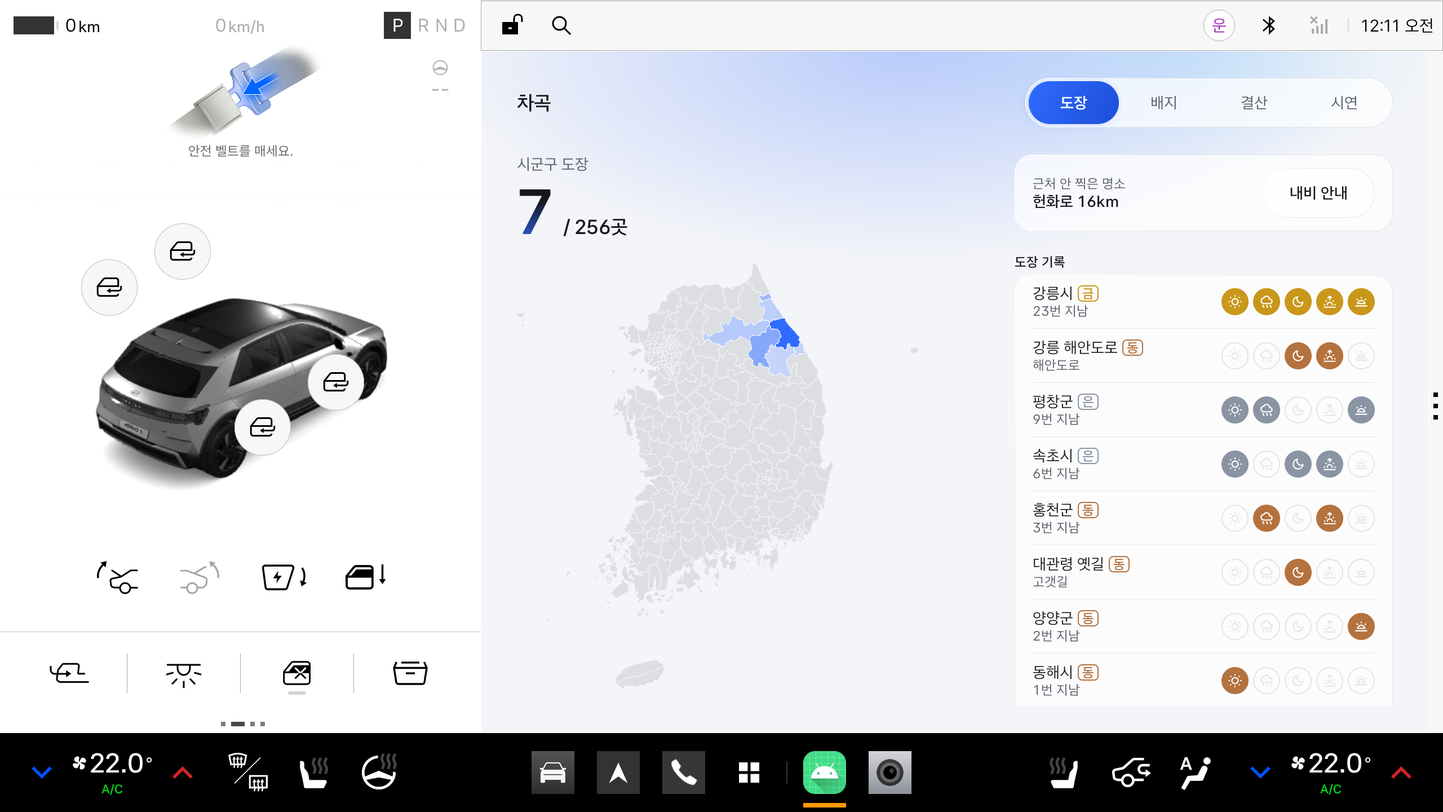
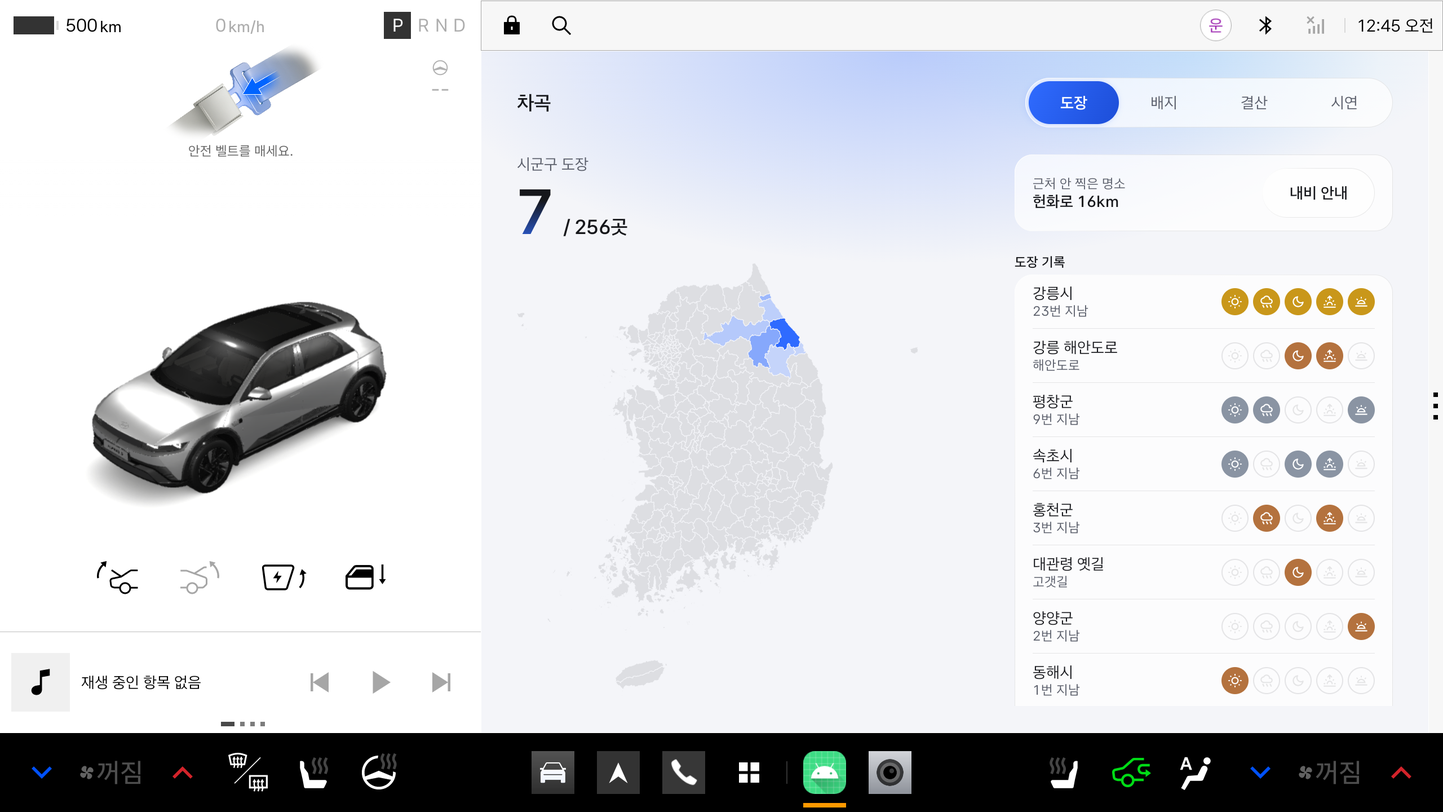
도장 목록의 등급 글자를 빼고 README 문제 정의를 다시 씀
도장 기록 목록에서 금, 은, 동 글자 태그를 빼고 등급은 칸 색과 화면 읽기 설명으로만 알립니다.
README는 운전자와 지역 두 갈래 문제 정의로 다시 쓰고, 링크가 있는 출처로 바꾸고, 세부 절을 줄였습니다.

diff --git a/app/src/main/java/com/example/chagok/ui/Pages.kt b/app/src/main/java/com/example/chagok/ui/Pages.kt
@@ -35,6 +35,8 @@ import androidx.compose.ui.graphics.drawscope.Stroke
 import androidx.compose.ui.graphics.drawscope.withTransform
 import androidx.compose.ui.res.painterResource
 import androidx.compose.ui.res.stringResource
+import androidx.compose.ui.semantics.contentDescription
+import androidx.compose.ui.semantics.semantics
 import androidx.compose.ui.text.style.TextAlign
 import androidx.compose.ui.unit.dp
 import com.example.chagok.Badge
@@ -94,18 +96,18 @@ private fun PlaceList(places: Map<String, List<Stamp>>, visits: Map<String, Int>
     if (recent.isEmpty()) Text(stringResource(R.string.map_empty), Type.body, palette.textSub, Modifier.padding(vertical = Space.m))
     else Panel(recent) { (code, stamps) ->
         val count = visits[code] ?: 0
+        val level = Level.of(count)
         Pressable({ onOpen(code) }, Modifier.fillMaxWidth()) {
             Row(Modifier.fillMaxWidth().heightIn(min = Space.touch).padding(vertical = Space.s), verticalAlignment = Alignment.CenterVertically) {
                 Column(Modifier.weight(1f)) {
-                    Row(verticalAlignment = Alignment.CenterVertically) {
-                        Text(stampName(code), Type.body, palette.text)
-                        Level.of(count)?.let { Spacer(Modifier.width(Space.xs)); LevelTag(it) }
-                    }
+                    // 등급은 칸 색으로만 보여 주고, 화면 읽기에는 등급 이름을 함께 읽어 줍니다
+                    val name = stampName(code)
+                    val description = level?.let { stringResource(R.string.reveal_level, name, stringResource(it.label)) } ?: name
+                    Text(name, Type.body, palette.text, Modifier.semantics { contentDescription = description })
                     // 명소는 종류를, 시군구는 지난 횟수를 적습니다
                     Text(Rules.spot(code)?.let { stringResource(it.kind.label) } ?: stringResource(R.string.visits, count), Type.label, palette.textSub)
                 }
                 val got = stamps.map { it.moment }.toSet()
-                val level = Level.of(count)
                 Row(horizontalArrangement = Arrangement.spacedBy(Space.xs)) {
                     Moment.entries.forEach { MomentDot(it, level.takeIf { _ -> it in got }, Modifier.size(48.dp)) }
                 }

diff --git a/README.md b/README.md
@@ -9,8 +9,6 @@ Pleos Connect 차량용 앱 | 현대차그룹 차량용 앱 개발 공모전 출
 ![Platform](https://img.shields.io/badge/Pleos_Connect-AAOS_14-2F6BFF?style=flat-square)
 ![Kotlin](https://img.shields.io/badge/Kotlin-2.2-7F52FF?style=flat-square&logo=kotlin&logoColor=white)
 ![Jetpack Compose](https://img.shields.io/badge/Jetpack_Compose-BOM_2026.09-4285F4?style=flat-square&logo=jetpackcompose&logoColor=white)
-![Tests](https://img.shields.io/badge/unit_tests-20_passed-2F6BFF?style=flat-square)
-![Offline](https://img.shields.io/badge/서버-없이_동작-5B5F6B?style=flat-square)
 
 [APK 받기](apk/차곡_release.apk) | [시연 영상](.github/readme/demo.mp4) | [설치와 실행](#설치와-실행) | [시연 순서](#시연-순서)
 
@@ -20,72 +18,69 @@ Pleos Connect 차량용 앱 | 현대차그룹 차량용 앱 개발 공모전 출
 
 </div>
 
-<br>
-
 ## 요약
 
-차곡은 차로 지난 시군구와 명소에 그때의 순간(낮, 비, 밤, 새벽, 노을)과 계절을 담은 도장을 찍습니다. 같은 곳도 순간과 계절마다 새 칸이 열려, 한 번 찍으면 끝나는 스탬프와 달리 다시 달릴 이유가 생깁니다.
+차곡은 차로 지난 시군구와 명소에 그때의 순간(낮, 비, 밤, 새벽, 노을)과 계절을 담은 도장을 찍는 Pleos Connect 앱입니다. 같은 곳도 순간과 계절이 바뀌면 새 칸이 열려서, 한 번 찍으면 끝나는 스탬프와 달리 다시 달릴 이유가 생깁니다.
 
 | 항목 | 내용 |
 |---|---|
+| 사용자 | 주말 드라이브를 하는 운전자, 출퇴근 운전자 |
 | 도장 | 시군구 256곳, 명소 11곳. 곳마다 순간 5가지 x 계절 4가지 = 20칸 |
-| 판정 신호 | 비는 와이퍼, 밤, 새벽, 노을은 해 뜨고 지는 시각 |
+| 판정 신호 | 기어, 와이퍼(비), 해 뜨고 지는 시각(밤, 새벽, 노을), 위치 |
 | 등급 | 같은 곳을 지난 날수로 동(1일), 은(5일), 금(20일) |
-| 운전 중 화면 | "주행 기록 중" 한 줄. 새 도장은 기어 P 3초 뒤 공개 |
-| 사용자 | 주말 드라이브를 하는 20~40대 운전자, 출퇴근 운전자 |
-| 검증 | 단위 테스트 20건 통과, 에뮬레이터 경로 재생과 내비 안내 확인 |
-
-<br>
+| 사용 SDK | Pleos Vehicle, FusedLocation, NaviHelper, TextToSpeech |
 
 ## 문제 정의
 
-운전자는 드라이브의 순간을 남길 수 없습니다. 운전 중에는 사진도 메모도 할 수 없고, 다녀온 뒤에는 어디를 몇 번, 어떤 날씨에 달렸는지 기억으로만 남습니다.
+차곡은 운전자 쪽 문제 하나와 지역 쪽 문제 하나를 함께 풉니다.
 
-| 대상 | 불편한 순간 | 지금 쓰는 방법과 한계 |
-|---|---|---|
-| 드라이브하는 운전자 | 비 오는 대관령 옛길을 넘어도 운전 중이라 사진 한 장 남기지 못합니다. 다녀온 뒤에는 그 길을 몇 번 갔는지도 모릅니다 | 동승자가 찍은 사진은 사진첩에 흩어집니다. 폰 타임라인은 위치만 남겨, 그날 비가 왔는지 밤이었는지는 없습니다 |
-| 지자체, 관광공사 | 스탬프 투어에 보상 예산을 써도 방문객이 한 번 찍고 다시 오지 않습니다 | 폰 GPS 스탬프는 한 지점에 들어오면 찍히고 한 번으로 끝납니다. 경북 디지털 관광주민증은 발급 대비 이용이 2.9%입니다 |
+### 운전자: 차로 다녀온 여행이 아무것도 남지 않습니다
 
-국내 여행 약 3억 900만 회 가운데 84.5%가 자가용이라, 이 불편은 국내 여행 대부분에서 생깁니다.
+국내 여행의 84.5%는 자가용으로 갑니다. 그런데 운전자는 운전하는 동안 사진도 메모도 남길 수 없습니다. 비 오는 대관령 옛길을 넘어도 남는 것은 동승자 휴대폰에 흩어진 사진 몇 장이고, 휴대폰 타임라인은 위치만 남겨서 그날 비가 왔는지 밤이었는지는 기록되지 않습니다. 다녀온 뒤에는 그 길을 몇 번, 어떤 날씨에 달렸는지 기억으로만 남습니다.
 
-| 항목 | 값 | 출처 |
-|---|---|---|
-| 국내여행 교통수단 중 자가용 | 84.5% | 2025 국민여행조사, 세계일보 2026-06-30 |
-| 국내여행 횟수 | 약 3억 900만 회, 1인당 6.5회 | 위와 같음 |
-| 디지털 관광주민증(경북) | 발급 122만 1,064건, 이용 3만 5,878건(2.9%) | 뉴시스 2026-07-11 |
-| 지자체 스탬프 보상 | 구미 8곳 인증 시 지역화폐 최대 2만 원, 남양주 최대 4만 원 | 텔트립, 헤럴드K |
+### 지역: 방문객이 다시 와야 하는데, 다시 올 이유가 없습니다
 
-## 차별점
+인구가 줄어드는 지역은 방문객으로 버팁니다. 2026년 5월 인구감소지역에는 주민의 5.8배나 되는 사람이 드나들었습니다. 그래서 지자체는 스탬프 투어와 디지털 관광주민증에 예산을 씁니다. 하지만 스탬프는 한 지점에 들어가면 찍히고 한 번으로 끝나고, 관광주민증은 발급만 하고 쓰지 않는 경우가 대부분입니다. 경북은 관광주민증을 122만 건 발급했지만 실제로 쓰인 것은 3만 6천 건입니다.
+
+## 해결: 다시 달릴 이유를 만드는 도장
+
+차곡은 같은 곳도 그때의 순간과 계절마다 다른 도장을 찍습니다. 운전자는 운전에 손대지 않아도 그날의 드라이브가 기록으로 남고, 지역은 같은 사람이 다른 계절, 다른 시간에 다시 올 이유를 얻습니다.
+
+이 구조가 작동하는 이유는 네 단계입니다.
+
+| 단계 | 근거 |
+|---|---|
+| 1. 여행 대부분은 차로 갑니다 | 국내 여행 교통수단의 84.5%가 자가용입니다 |
+| 2. 지역에는 다시 오는 방문객이 필요합니다 | 인구감소지역 체류인구는 주민의 5.8배입니다 |
+| 3. 한 번 받으면 끝나는 혜택으로는 다시 오지 않습니다 | 경북 관광주민증은 122만 건 발급, 3만 6천 건 이용에 그쳤습니다 |
+| 4. 순간과 계절이 바뀌면 같은 곳도 새 칸이 열립니다 | 한 곳에 20칸이 있고, 지난 날수만큼 동, 은, 금으로 오릅니다 |
 
 | 기존 | 차곡 |
 |---|---|
-| 한 지점에 들어오면 찍히는 폰 GPS 스탬프 | 차에 탑재된 앱이라 차로 지난 곳만 쌓입니다. 명소는 시작점과 끝점을 순서대로 지나야 찍힙니다 |
+| 한 지점에 들어오면 찍히는 휴대폰 GPS 스탬프 | 차에 탑재된 앱이라 차로 지난 곳만 쌓입니다. 명소는 시작점과 끝점을 순서대로 지나야 찍힙니다 |
 | 한 번 찍으면 끝나는 스탬프 | 순간과 계절마다 새 도장이 찍히고, 지난 날수만큼 등급이 오릅니다 |
-| 날씨 앱이 알려 주는 지역 날씨 | 와이퍼를 켜고 달린 구간만 비로 셉니다 |
+| 날씨 앱이 알려 주는 지역 날씨 | 와이퍼를 켜고 달린 구간만 비로 셉니다. 휴대폰은 알 수 없는 차 신호입니다 |
 | 가 볼 곳 추천 목록 | 정차 중 가장 가까운 안 찍은 명소를 Pleos 내비 목적지로 보냅니다 |
 
-<br>
+| 근거 | 내용 | 출처 |
+|---|---|---|
+| 국내 여행 교통수단 | 자가용 84.5%, 1인당 연 6.5회 여행 (2025 국민여행조사) | [시사저널 2026-06-30](https://www.sisajournal.com/news/articleView.html?idxno=378149), 문화체육관광부 |
+| 인구감소지역 체류인구 | 2026년 5월 주민 486만 명, 체류인구 2,799만 명(5.8배). 정식 통계가 아닌 실험적 통계 | [뉴스핌 2026-10-29](https://www.newspim.com/news/view/20261029000651), 국가데이터처·행정안전부 |
+| 디지털 관광주민증 | 경북 발급 122만 1,064건, 이용 3만 5,878건 | [뉴시스, 네이트 뉴스 2026-07-11](https://news.nate.com/view/20260711n03267) |
 
 ## 주요 기능
 
 | 주행 중 | 정차 후 공개 |
 |---|---|
 | <img src=".github/readme/02-driving.png" alt="주행 중 화면. 주행 기록 중 한 줄"> | <img src=".github/readme/03-reveal.png" alt="정차 후 공개. 11월 9일, 밤. 새 도장 2장"> |
-| 기어가 P에서 벗어나면 한 줄 화면으로 바꾸고 모션과 소리를 끕니다. 다른 앱을 띄워도 포그라운드 서비스로 기록합니다 | 기어 P 3초 뒤 날짜, 순간, 새 도장, 오른 등급, 배지를 보여 주고 "새 도장 2장을 모았습니다"처럼 읽어 줍니다 |
+| 기어가 P에서 벗어나면 한 줄 화면으로 바꾸고 모션과 소리를 끕니다. 다른 앱을 띄워도 포그라운드 서비스로 기록합니다 | 기어 P 3초 뒤 날짜, 순간, 새 도장, 오른 등급을 보여 주고 "새 도장 2장을 모았습니다"처럼 읽어 줍니다 |
 
 | 도장 지도 | 도장첩 |
 |---|---|
-| <img src=".github/readme/04-map.png" alt="도장 탭. 지난 날수만큼 칠한 강원 지도, 근처 명소 헌화로 16km, 등급별 도장 기록"> | <img src=".github/readme/05-book.png" alt="강릉시 도장첩. 계절 4줄, 순간 5칸의 20칸 판"> |
-| 지난 날이 많은 시군구일수록 진하게 칠합니다. 맨 위에는 가까운 안 찍은 명소와 "내비 안내" 버튼이 있습니다 | 한 곳의 20칸 판입니다. 찍힌 칸은 등급 색으로 채웁니다 |
+| <img src=".github/readme/04-map.png" alt="도장 탭. 지난 날수만큼 칠한 강원 지도, 근처 명소 헌화로 16km, 등급 색으로 칠한 도장 기록"> | <img src=".github/readme/05-book.png" alt="강릉시 도장첩. 계절 4줄, 순간 5칸의 20칸 판"> |
+| 지난 날이 많은 시군구일수록 진하게 칠합니다. 맨 위에는 가까운 안 찍은 명소와 "내비 안내" 버튼이 있습니다 | 한 곳의 20칸 판입니다. 찍힌 칸은 그곳 등급 색으로 채웁니다 |
 
-| 배지 | 월간 결산 |
-|---|---|
-| <img src=".github/readme/06-badges.png" alt="배지 탭. 모은 배지 5 / 12개"> | <img src=".github/readme/07-recap.png" alt="2026년 10월 결산"> |
-| 오래 쌓는 목표 12개. 받기 전에는 진행도(예: 7 / 18곳)를 보여 줍니다 | 달린 거리, 새 도장, 가장 많이 달린 곳, 비 온 날, 밤 거리, 배지 |
-
-동의 화면은 위치와 차량 신호 두 권한과 쓰는 곳을 보여 주고, "동의하고 시작"을 눌러야 기록을 시작합니다.
-
-<br>
+이 밖에 오래 쌓는 목표 배지 12개와 월간 결산(달린 거리, 새 도장, 비 온 날, 밤 거리)이 있습니다. 처음 실행하면 동의 화면에서 쓰는 정보를 보여 주고, "동의하고 시작"을 눌러야 기록을 시작합니다.
 
 ## 도장 규칙
 
@@ -104,107 +99,30 @@ Pleos Connect 차량용 앱 | 현대차그룹 차량용 앱 개발 공모전 출
 | 밤 | 해가 진 뒤입니다 |
 | 낮 | 그 밖의 시간입니다 |
 
-계절은 날짜(봄 3~5월, 여름 6~8월, 가을 9~11월, 겨울 12~2월)로 정합니다. 등급은 같은 날 여러 번 지나도 하루로 세므로, 매일 지나는 출근길도 금까지 평일 20일이 걸립니다.
-
-<details>
-<summary>등급 색, 명소, 배지 목록</summary>
-
-| 등급 | 날수 | 색 |
-|---|---|---|
-| 동 | 1일 | `#B4723E` |
-| 은 | 5일 | `#8A94A3` |
-| 금 | 20일 | `#C9971A` |
-
-| 명소 | 종류 | 찍을 수 있는 때 |
-|---|---|---|
-| 강릉 해안도로, 헌화로, 달맞이길, 애월 해안도로, 물미해안도로 | 해안도로 | 언제나 |
-| 대관령 옛길, 미시령 옛길, 한계령 | 고갯길 | 언제나 |
-| 여의도 윤중로 | 벚꽃길 | 4월 |
-| 내장산 단풍길 | 단풍길 | 10월 15일부터 11월 15일까지 |
-| 호미곶 | 해돋이 | 1월 1일 |
-
-| 코드 | 이름 | 조건 |
-|---|---|---|
-| B-01 | 열 곳의 방문자 | 서로 다른 시군구 10곳 |
-| B-02 | 전국 여행자 | 서로 다른 시군구 50곳 |
-| B-03 | 강원 완주 | 강원 시군구 18곳 모두 |
-| B-04 | 1,000km 달성 | 누적 주행 1,000km |
-| B-05 | 빗길 드라이버 | 와이퍼를 켜고 누적 100km |
-| B-06 | 해안길 탐험가 | 해안 명소 3곳 |
-| B-07 | 고갯길 탐험가 | 고개 명소 3곳 |
-| B-08 | 한정 도장 | 기간 한정 명소 1곳 |
-| B-09 | 하루의 모든 얼굴 | 한 곳에서 순간 5가지 |
-| B-10 | 사계절 | 한 곳에서 계절 4가지 |
-| B-11 | 도장첩 완성 | 한 곳의 20칸 모두 |
-| B-12 | 단골 | 한 곳을 서로 다른 20일에 지나 금 등급 |
-
-</details>
-
-<br>
+계절은 날짜(봄 3~5월, 여름 6~8월, 가을 9~11월, 겨울 12~2월)로 정합니다. 등급은 같은 날 여러 번 지나도 하루로 세므로, 매일 지나는 출근길도 금까지 평일 20일이 걸립니다. 명소는 해안도로 5곳, 고갯길 3곳, 기간 한정 3곳(4월 윤중로 벚꽃길, 가을 내장산 단풍길, 1월 1일 호미곶)입니다.
 
 ## 안전과 개인정보
 
 | 기준 | 구현 |
 |---|---|
 | 주행 중 애니메이션 금지 | 기어가 P에서 벗어나면 전환 효과 없이 한 줄 화면으로 바꾸고 모든 모션을 끕니다 |
-| 운전 중 행동 유도 금지 | 주행 중 소리와 알림이 없습니다. 근처 명소와 내비 안내는 정차 중에만 보입니다 |
+| 운전 중 행동 유도 금지 | 주행 중에는 소리와 알림이 없습니다. 근처 명소와 내비 안내는 정차 중에만 보입니다 |
 | 오디오 포커스 | `GAIN_TRANSIENT_MAY_DUCK`으로 받아 내비 안내와 겹치지 않습니다 |
-| 가독성과 조작 | 본문 대비 16.4:1, 누르는 영역 88dp 이상 |
-| 저장 | 좌표는 판정 뒤 버리고 시군구별, 순간별 거리만 기기 안에 남깁니다. 서버로 보내지 않습니다 |
-| 권한 | 기어와 와이퍼를 읽기만 합니다. 와이퍼를 읽으려면 창문 권한(`CAR_WINDOWS`)이 필요합니다. 내비 권한은 "내비 안내"를 누를 때만 씁니다 |
-
-<details>
-<summary>세부 기준</summary>
-
-| 가이드 기준 | 구현 |
-|---|---|
-| 대비 4.5:1 이상 | 본문 16.4:1, 보조 글자 5.9:1(밝은 테마), 파란 바탕 위 흰 글자 4.5:1 이상 |
-| CCP 미지원 선언, Back은 `moveTaskToBack` | `ROTARY_SUPPORTED=false`를 선언했고, 뒤로 가기는 앱을 닫지 않고 뒤로 보냅니다. 알림을 눌러도 화면이 쌓이지 않게 `singleTask`로 엽니다 |
-| 위치 사용은 명시적 동의 | "동의하고 시작"을 누른 뒤에 FusedLocation 권한을 요청합니다 |
-| 지울 권리 | 시연 탭에서 기록을 모두 지울 수 있습니다 |
-
-</details>
-
-<br>
+| 저장 | 좌표는 판정한 뒤 버리고, 시군구별 순간별 거리만 기기 안에 남깁니다. 서버로 보내지 않습니다 |
 
 ## 설치와 실행
 
-| 항목 | 값 |
+| 준비물 | 값 |
 |---|---|
 | 에뮬레이터 | Pleos Connect v2.1.0 (Android 14, API 34, 2560×1440) |
-| 차량 값 조작 | Pleos Connect Virtual Console (`http://127.0.0.1:8088/`) |
 | APK | [`apk/차곡_release.apk`](apk/차곡_release.apk) |
+| 차량 값 조작 | Pleos Connect Virtual Console (`http://127.0.0.1:8088/`) |
 
 ```bash
 adb install -r apk/차곡_release.apk
 ```
 
 차곡을 열고 "동의하고 시작"을 누른 뒤 알림과 위치 권한을 허용합니다. 차량 전용 앱이라 휴대폰 에뮬레이터에는 설치되지 않습니다.
-
-<details>
-<summary>직접 빌드와 테스트</summary>
-
-Android Studio의 JBR을 씁니다. Pleos SDK는 `https://nexus-playground.pleos.ai/repository/maven-releases/`에서 받습니다.
-
-```bash
-export JAVA_HOME="/Applications/Android Studio.app/Contents/jbr/Contents/Home"
-```
-
-```bash
-./gradlew :app:assembleDebug
-```
-
-```bash
-adb install -r app/build/outputs/apk/debug/app-debug.apk
-```
-
-```bash
-./gradlew :app:testDebugUnitTest
-```
-
-앱은 사용자 10으로 실행됩니다. 권한을 미리 주려면 `adb shell pm grant --user 10 com.example.chagok pleos.car.permission.FUSED_LOCATION`을 씁니다.
-
-</details>
 
 ## 시연 순서
 
@@ -221,58 +139,18 @@ adb install -r app/build/outputs/apk/debug/app-debug.apk
 | 7 | 강릉시를 눌러 도장첩, 배지 탭, 결산 탭 | |
 | 8 | 와이퍼를 켜고 "대관령 옛길" 재생 | 와이퍼 켬, Gear: D, 65초 뒤 Gear: P. "비 오는" 도장 |
 
-<details>
-<summary>실제 위치로 시험하기</summary>
+## 기술 스택
 
-경로 재생 대신 위치를 직접 옮기면 FusedLocation 위치와 근접 알림을 그대로 씁니다. 1초에 100~150m씩 옮겨야 거리에 들어갑니다.
-
-```bash
-adb emu geo fix 129.0350 37.6880
-```
-
-헌화로 시작점(37.6880, 129.0350)에서 끝점(37.6650, 129.0530)까지 옮긴 뒤 기어를 P에 두면 헌화로 도장을 받습니다. 기어 P인 채로 옮기면 기록되지 않습니다.
-
-</details>
-
-<br>
-
-## 검증 결과
-
-단위 테스트 20건을 통과했고, 에뮬레이터에서 아래 6가지를 확인했습니다(2026-11-05~11-09, Pleos Connect v2.1.0, 사용자 10).
-
-| 항목 | 결과 |
+| 영역 | 사용 |
 |---|---|
-| 강릉 해안도로 재생 (밤) | 기어 P 3초 뒤 "새 도장 2장"(밤의 강릉시, 밤의 강릉 해안도로) |
-| 대관령 옛길 재생 (밤, 해안도로 다음) | 밤의 대관령 옛길만 새로 찍힘. 이미 받은 밤의 강릉시와 평창군 가을 밤은 다시 찍히지 않음 |
-| 지난 기록 채우기 | 강원 7곳과 명소 2곳을 1년에 걸쳐 지난 기록 48번. 강릉시 금, 평창군과 속초시 은, 나머지 동 |
-| 근처 명소와 내비 안내 | 강릉 근처에서 "헌화로 16km". 누르면 Pleos 내비에 경로가 뜸 |
-| 기어 P 상태로 이동 | 미시령 구간을 옮겨도 기록되지 않음 |
-| 백그라운드 | 앱이 뒤에 있어도 `DriveService`가 포그라운드(specialUse)로 동작 |
+| 언어, UI | Kotlin 2.2, Jetpack Compose (BOM 2026.09.00) |
+| Pleos SDK | Vehicle 2.3.2, FusedLocation 1.1.3, NaviHelper 3.0.5, TextToSpeech 3.3.1 (ON_DEVICE) |
+| 백그라운드 | `specialUse` 포그라운드 서비스 |
+| 저장 | `AtomicFile` JSON, `SharedPreferences` |
+| 빌드 | AGP 9.4, minSdk 34, targetSdk 37 |
 
 <details>
-<summary>단위 테스트 내역과 미검증 항목</summary>
-
-단위 테스트는 시군구 판정 5건(256곳 읽기, 경계 양쪽, 바다, 시연 경로)과 순간, 도장, 등급, 기간 한정, 배지, 근처 명소, 지난 기록, 결산 15건입니다.
-
-| 미검증 항목 | 이유 |
-|---|---|
-| 기간 한정 명소 3곳 실주행 | 날짜가 맞지 않아 단위 테스트로만 확인했습니다 |
-| 새벽, 노을 순간 실기 획득 | 시각이 맞지 않아 단위 테스트로만 확인했습니다 |
-| App Market의 `specialUse` 허용 | 심사 기준에서 확인하지 못했습니다. `location` 종류는 Android 위치 권한을 요구하는데 이 앱은 Pleos FusedLocation 권한만 씁니다 |
-| 앱이 뒤에 있을 때 공개 화면 | 지금은 음성만 나오고, 앱을 열면 공개 화면이 보입니다 |
-| 서비스 재시작 뒤 리스너와 근접 알림 | 프로세스를 끊어 보는 시험을 하지 않았습니다 |
-| 실차의 와이퍼 값 | 에뮬레이터 값만 확인했습니다 |
-| 시연 경로 밖 명소 좌표 | 시연용 근사값입니다 |
-| 어두운 테마, 세로 창, TalkBack | 화면 개편 뒤에는 확인하지 않았습니다 |
-
-</details>
-
-<br>
-
-## 구조
-
-<details>
-<summary>구조도, 파일, 기술 스택</summary>
+<summary>구조</summary>
 
 ```mermaid
 flowchart LR
@@ -302,66 +180,13 @@ flowchart LR
     UI -- 내비 안내 --> D --> N
 ```
 
-| 파일 | 하는 일 |
-|---|---|
-| `DriveService.kt` | `specialUse` 포그라운드 서비스로 `Drive`를 시작하고 끝냅니다 |
-| `Drive.kt` | 차량 신호, 위치, 근접 알림으로 주행을 열고 닫습니다. 공개, 경로 재생, 내비 안내도 다룹니다 |
-| `Rules.kt` | 순간 판정, 주행 기록, 새 도장, 등급, 배지, 월간 결산 |
-| `Regions.kt` | 좌표가 어느 시군구 안인지 찾습니다 |
-| `Store.kt` | 기록을 `AtomicFile`로 저장합니다. 진행 중인 주행도 따로 저장해 앱이 꺼져도 다음 실행 때 정산합니다 |
-| `Voice.kt` | 기기 안 TTS와 오디오 포커스 |
-| `Sun.kt` | 해 뜨고 지는 시각 계산 |
-| `ui/` | 화면 8개, 디자인 토큰, 공통 컴포넌트 |
-
-| 영역 | 사용 |
-|---|---|
-| 언어, UI | Kotlin 2.2, Jetpack Compose (BOM 2026.09.00) |
-| Pleos SDK | Vehicle 2.3.2, FusedLocation 1.1.3, NaviHelper 3.0.5, TextToSpeech 3.3.1(ON_DEVICE) |
-| 저장 | `AtomicFile` JSON, `SharedPreferences` |
-| 빌드 | AGP 9.4, minSdk 34, targetSdk 37 |
-
 </details>
 
-<details>
-<summary>디자인</summary>
+## 앞으로
 
-밝은 바탕에 파란 강조색 하나를 씁니다(`ui/Theme.kt`). 기기가 어두운 테마면 함께 바뀝니다. 파랑은 지도, 고른 탭, 주 버튼, 받은 배지에만 쓰고, 받기 전 칸과 배지는 선으로만 그립니다. 본문은 차량용 28sp입니다.
-
-| 토큰 | 밝은 테마 | 어두운 테마 |
-|---|---|---|
-| 배경 | `#F4F5F9` | `#121317` |
-| 유리 판 | 흰색 70% | 흰색 8% |
-| 본문 | `#16171B` | `#EEF0F3` |
-| 보조 글자 | `#5B5F6B` | `#A3A8B4` |
-| 강조 | `#2F6BFF`, `#1D4ED8` | 같음 |
-
-| 모션 | 쓰는 곳 |
-|---|---|
-| 스프링 눌림 | 버튼과 탭을 누르면 95%로 눌렸다 돌아오고 짧게 진동합니다 |
-| 손끝 불빛 | 누른 자리에서 빛이 번졌다가 0.3초 동안 사라집니다 |
-| 선택 알약 | 탭을 바꾸면 파란 알약이 스프링으로 옮겨 갑니다 |
-| 굴러가는 숫자 | 도장 받은 시군구 수, 달린 거리 |
-| 즉시 정지 | 주행 중이 되면 진행 중인 모션을 끝 상태로 바꿉니다 |
-
-</details>
-
-<details>
-<summary>기획 대비 변경</summary>
-
-| 기획 | 구현 | 이유 |
-|---|---|---|
-| 상황 배지(빗속 드라이브, 밤길 등) | 순간 도장 | 한 번 받으면 끝나서, 장소와 순간을 묶었습니다 |
-| 창문 열고 해안도로 배지 | 뺌 | 순간 5가지에 맞지 않습니다 |
-| 공유 이미지(QR) | 뺌 | 공유 페이지를 올릴 곳이 정해지지 않았습니다 |
-| Vehicle 주행거리계 | 위치 두 점 사이 거리 | 경로 재생과 `geo fix`에서는 주행거리계가 움직이지 않습니다 |
-| 일반 앱으로 백그라운드 기록 | 포그라운드 서비스 | 다른 화면을 띄우자마자 프로세스가 얼어 신호가 멈췄습니다 |
-| 주변 명소만 근접 알림 등록 | 22개 지점 모두 등록 | 60개까지 오류가 없었습니다 |
-| 명소 판정은 근접 알림만 | 경로 재생 중에는 앱이 같은 반경으로 직접 판정 | 경로 재생은 FusedLocation을 거치지 않습니다 |
-| minSdk 28 | minSdk 34 | `specialUse`가 API 34부터 있습니다 |
-
-</details>
-
-<br>
+- 지자체, 관광공사와 제휴해 도장과 등급을 지역 혜택으로 잇기
+- 실차에서 와이퍼 값과 새벽, 노을 순간 확인
+- 명소 좌표를 정밀하게 다듬고 명소 늘리기
 
 ## 출처
 
